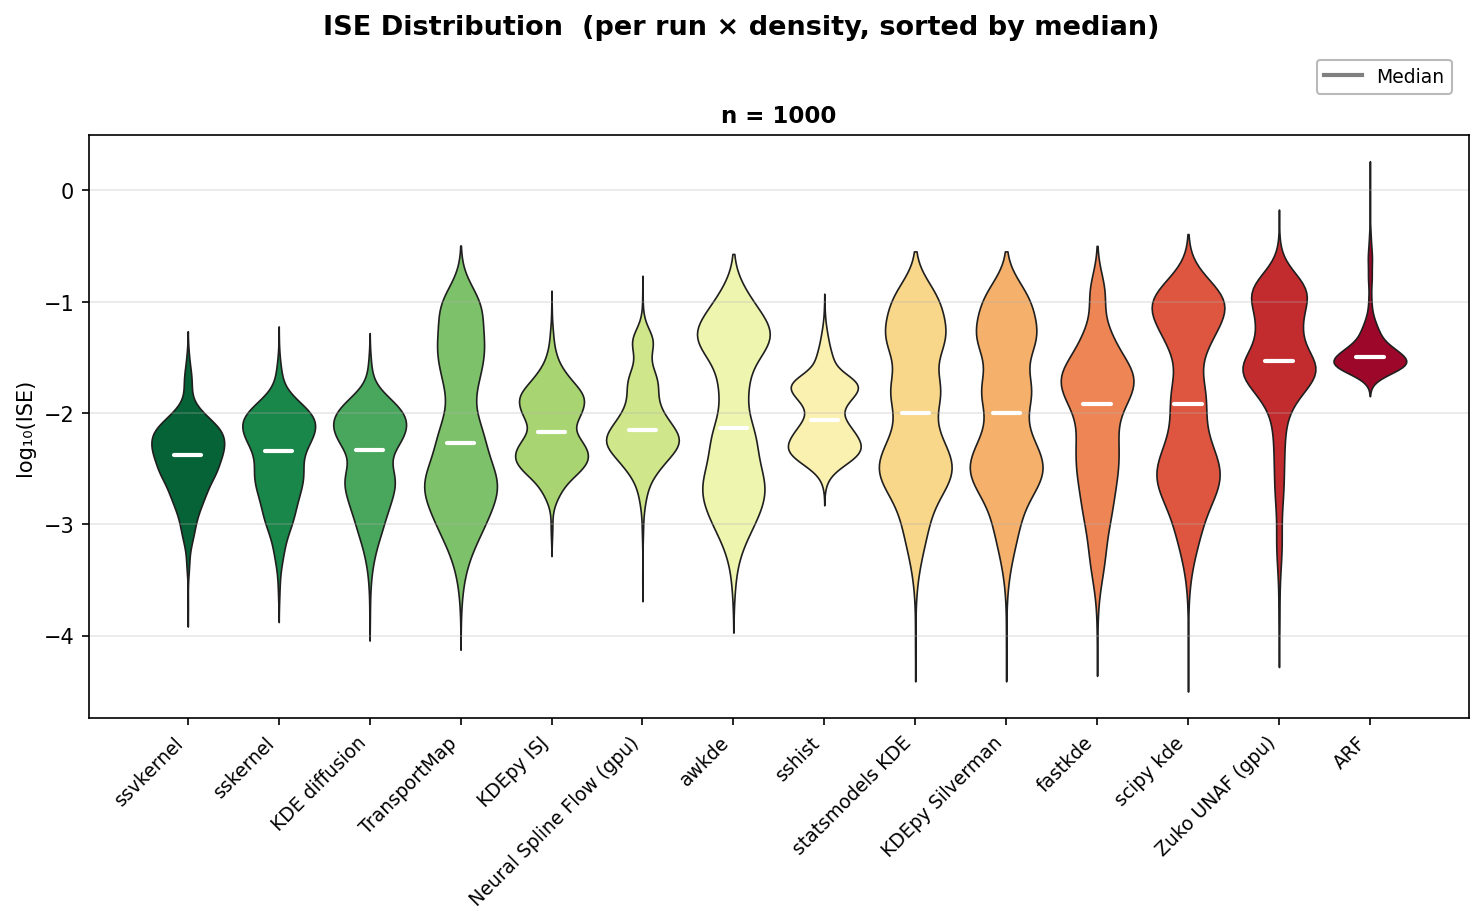
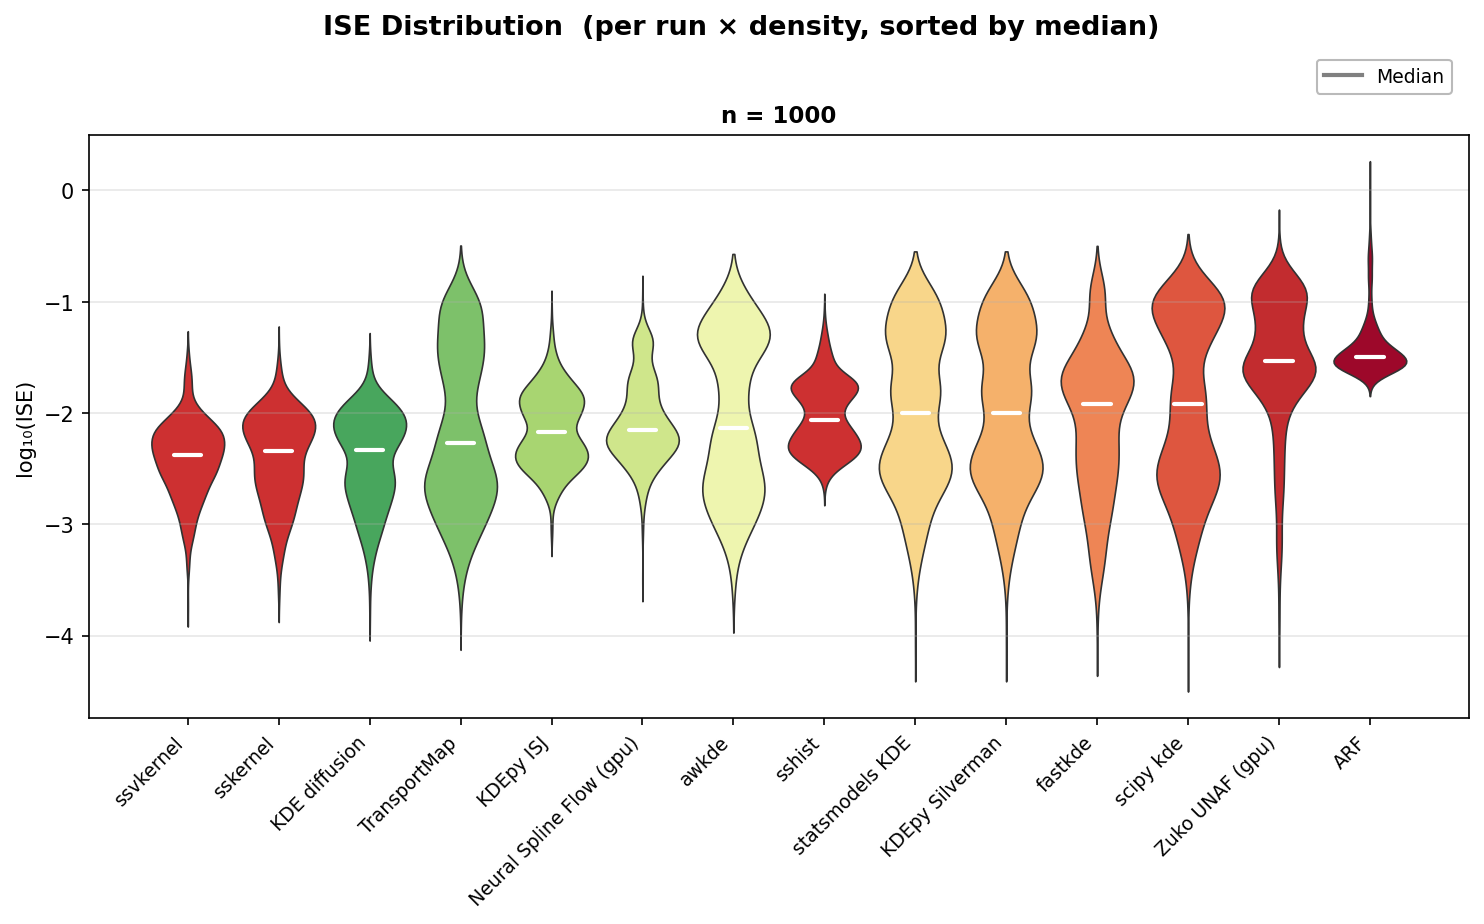
Highlight ssdensity methods in red on violin plot

Changed region(s): [[0.093, 0.3939, 0.217, 0.6061], [0.527, 0.3636, 0.5889, 0.5152]]

diff --git a/benchmarks/performance_comparison/run_mise_comparison.py b/benchmarks/performance_comparison/run_mise_comparison.py
@@ -1397,9 +1397,13 @@ def _violin_on_ax(ax, ise_vals, methods, n_samples):
                 x_vals.append(m)
                 y_vals.append(np.log10(v))
 
-    # Gradient palette: best (green) → worst (red)
+    # Gradient palette: best (green) → worst (red), ssdensity methods in red
+    _SSDENSITY = {'sskernel', 'ssvkernel', 'sshist'}
     cmap = plt.colormaps['RdYlGn_r']
     palette = {m: cmap(i / max(n_methods - 1, 1)) for i, m in enumerate(order)}
+    for m in _SSDENSITY:
+        if m in palette:
+            palette[m] = '#d62728'
 
     sns.violinplot(x=x_vals, y=y_vals, hue=x_vals, order=order,
                    palette=palette, hue_order=order, legend=False,
